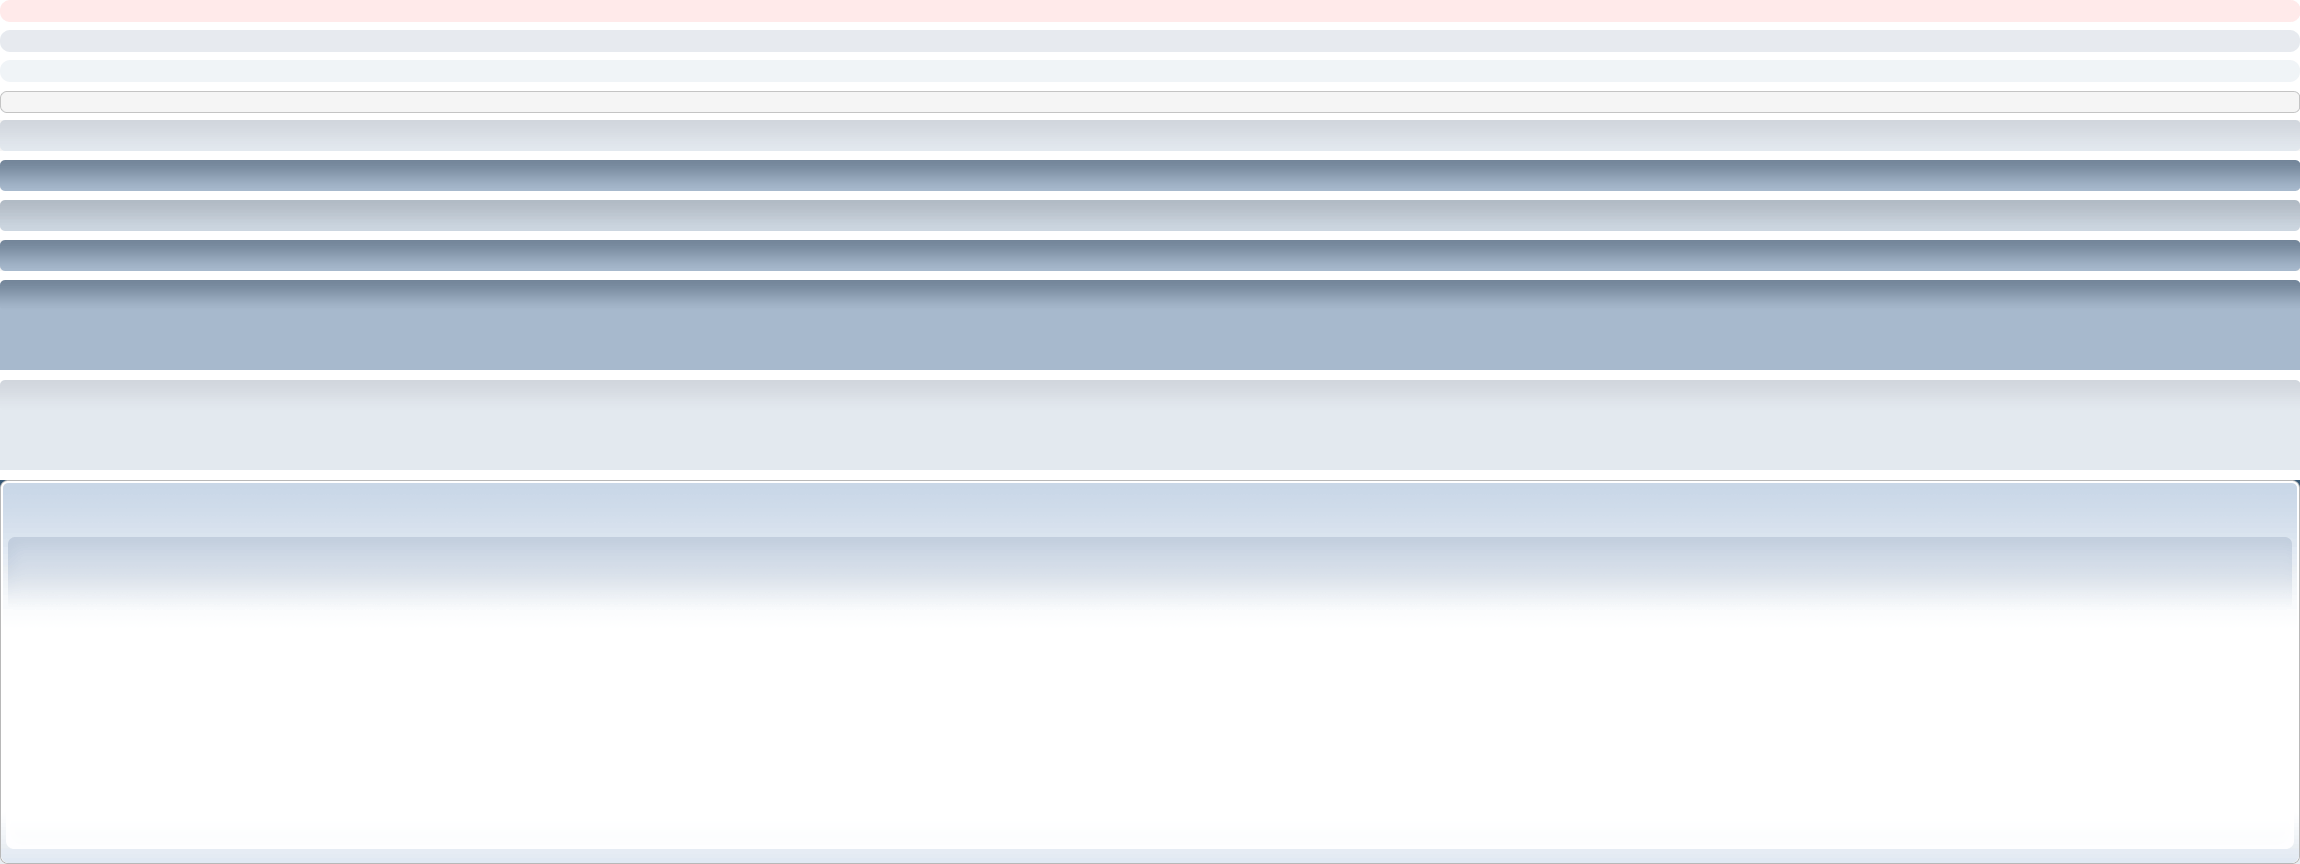
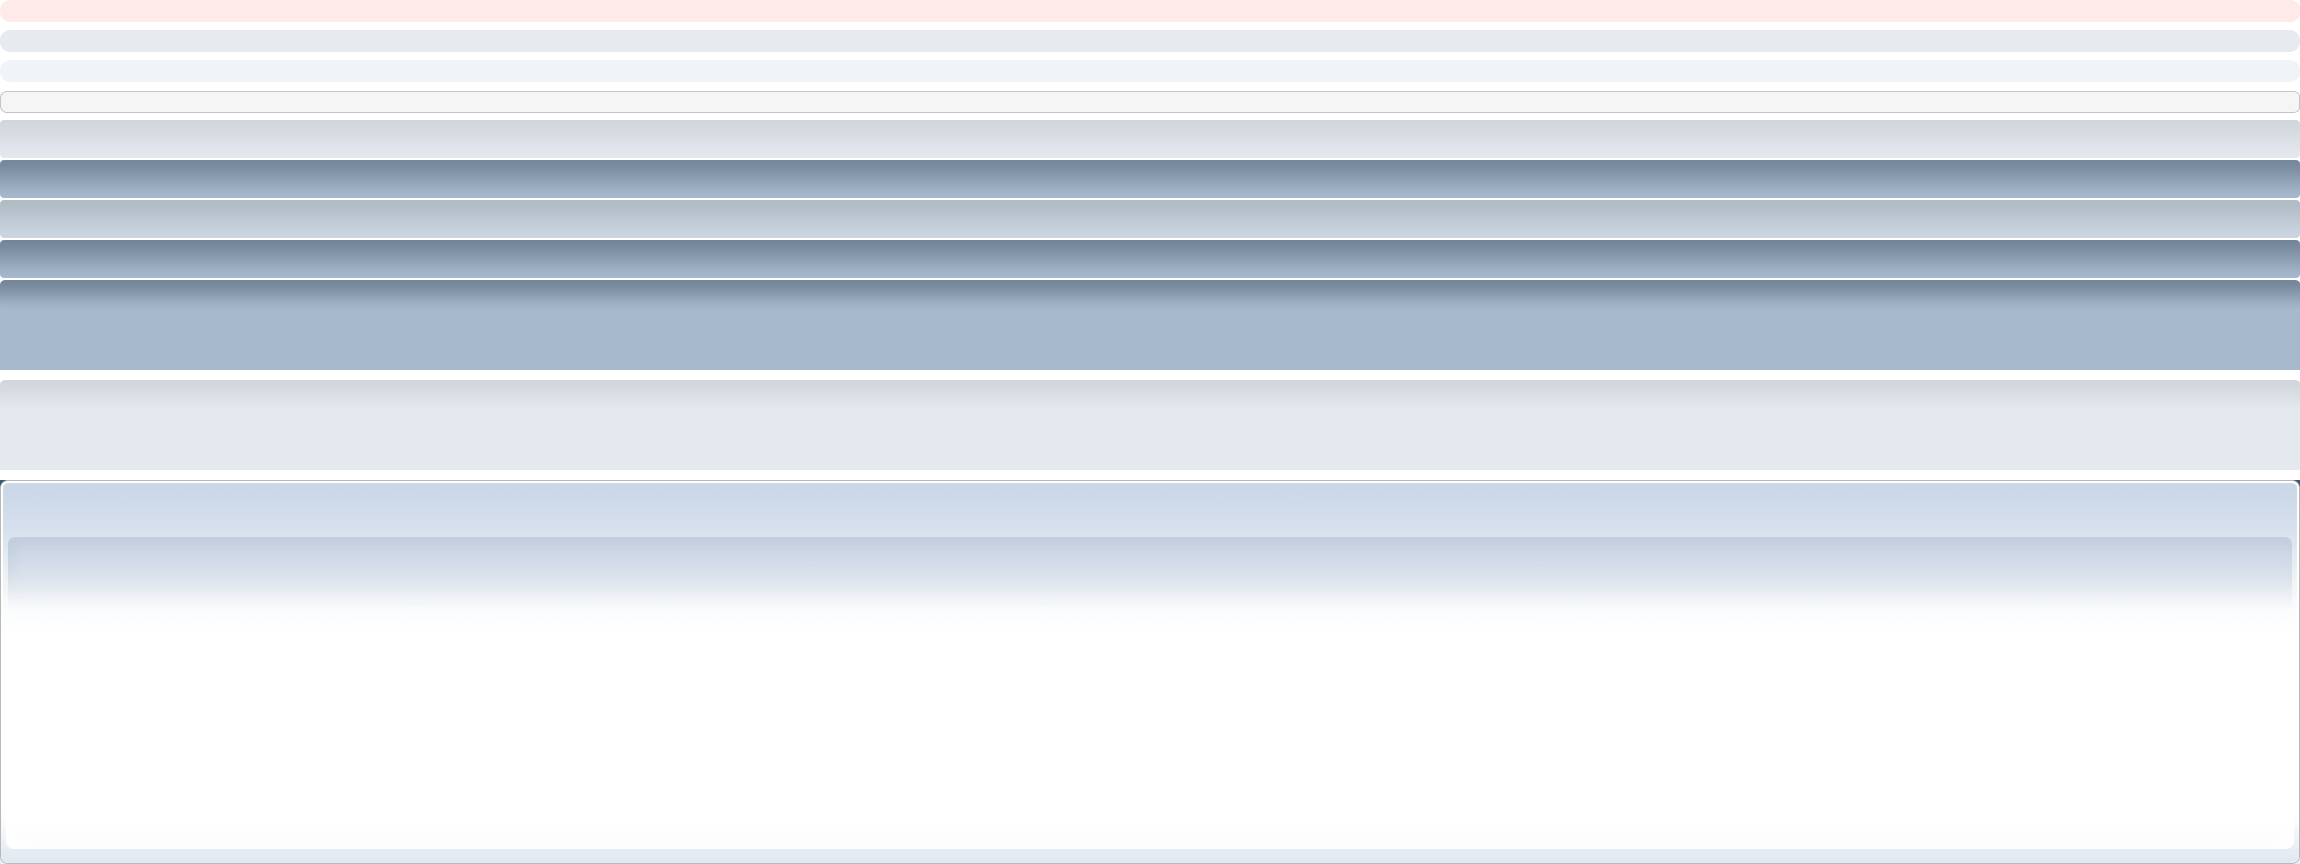
! Quick demo of larger header / title bars, mostly to test that all the css updates are proper

Changed region(s): [[0.0, 0.2188, 1.0, 0.2812], [0.0, 0.3125, 1.0, 0.3438], [0.0, 0.1562, 1.0, 0.1875]]

diff --git a/Themes/default/css/index.css b/Themes/default/css/index.css
@@ -826,8 +826,8 @@ dl.settings dt a img
 h3.catbg, h3.catbg2, h3.titlebg, h4.titlebg, h4.catbg
 {
 	overflow: hidden;
-	height: 31px;
-	line-height: 31px;
+	height: 38px;
+	line-height: 38px;
 	font-size: 1.2em;
 	font-weight: bold;
 }
@@ -881,13 +881,13 @@ h4.titlebg, h3.titlebg
 h4.titlebg img.icon
 {
 	float: left;
-	margin: 5px 8px 0 0;
+	margin: 9px 8px 0 0;
 }
 div.cat_bar
 {
 	background: #99abbf url(../images/theme/main_block.png) no-repeat 0 -160px;
 	padding-left: 9px;
-	height: 31px;
+	height: 38px;
 	overflow: hidden;
 	margin-bottom: 1px;
 }
@@ -895,7 +895,7 @@ div.title_bar
 {
 	background: #e3e9ef url(../images/theme/main_block.png) no-repeat 0 -200px;
 	padding-left: 9px;
-	height: 31px;
+	height: 38px;
 	overflow: hidden;
 	margin-bottom: 1px;
 }
@@ -915,7 +915,7 @@ div.title_barIC
 {
 	background: #dadfe6 url(../images/theme/main_block.png) no-repeat 0 -120px;
 	padding-left: 9px;
-	height: 31px;
+	height: 38px;
 	overflow: hidden;
 	margin-bottom: 1px;
 }
@@ -939,13 +939,13 @@ table.table_list a.unreadlink, table.table_list a.collapse
 }
 table.table_list a.collapse
 {
-	margin: 8px 5px 0 1em;
-	height: 31px;
-	line-height: 31px;
+	margin: 12px 5px 0 1em;
+	height: 38px;
+	line-height: 38px;
 }
 .panel_toggle
 {	
-	margin: 8px 5px 0 1em;
+	margin: 12px 5px 0 1em;
 	float: right;
 }
 
@@ -957,8 +957,8 @@ table.table_list a.collapse
 }
 .table_grid tr.catbg th, .table_grid tr.titlebg th
 {
-	height: 28px;
-	line-height: 28px;
+	height: 38px;
+	line-height: 38px;
 }
 tr.catbg th.first_th
 {
@@ -1993,7 +1993,7 @@ div#pollmoderation
 #forumposts h3 img
 {
 	float: left;
-	margin: 4px 0.5em 0 0;
+	margin: 8px 0.5em 0 0;
 }
 #forumposts h3.catbg
 {
@@ -3500,12 +3500,12 @@ dl.addrules dt.floatleft
 }
 #month_grid div.cat_bar
 {
-	height: 25px;
+	height: 38px;
 }
 #month_grid h3.catbg
 {
-	height: 25px;
-	line-height: 27px;
+	height: 38px;
+	line-height: 38px;
 }
 #month_grid table
 {

diff --git a/Themes/default/css/ie6.css b/Themes/default/css/ie6.css
@@ -17,7 +17,7 @@ h3.catbg img.icon, h4.titlebg img.icon
 }
 h3.catbg span.ie6_header, h4.catbg span.ie6_header, h3.titlebg span.ie6_header, h4.titlebg span.ie6_header
 {
-	padding: 6px 0;
+	padding: 10px 0;
 }
 #statistics h4.titlebg span.ie6_header
 {
